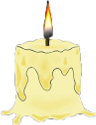
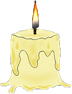
changed image sizes and deleted old images

diff --git a/src/scenes/GameScene.js b/src/scenes/GameScene.js
@@ -1,8 +1,7 @@
 import 'phaser';
 import logoImg from "../assets/logo.png";
 import candleImg from "../assets/candle.png";
-import ghostImg from "../assets/ghost.jpg";
-
+import ghostImg from "../assets/ghost.png";
 
 
 export default class GameScene extends Phaser.Scene{

diff --git a/src/scenes/BootScene.js b/src/scenes/BootScene.js
@@ -1,5 +1,5 @@
 import 'phaser'
-import candleImg from "../assets/1.png";
+import candleImg from "../assets/candle.png";
 
 export default class SceneBoot extends Phaser.Scene {
     constructor() {

diff --git a/src/scenes/MainScene.js b/src/scenes/MainScene.js
@@ -1,5 +1,5 @@
 import 'phaser';
-import ghostImg from "../assets/ghost.jpg"
+import ghostImg from "../assets/ghost.png"
 
 export default class SceneMain extends Phaser.Scene {
     constructor() {
